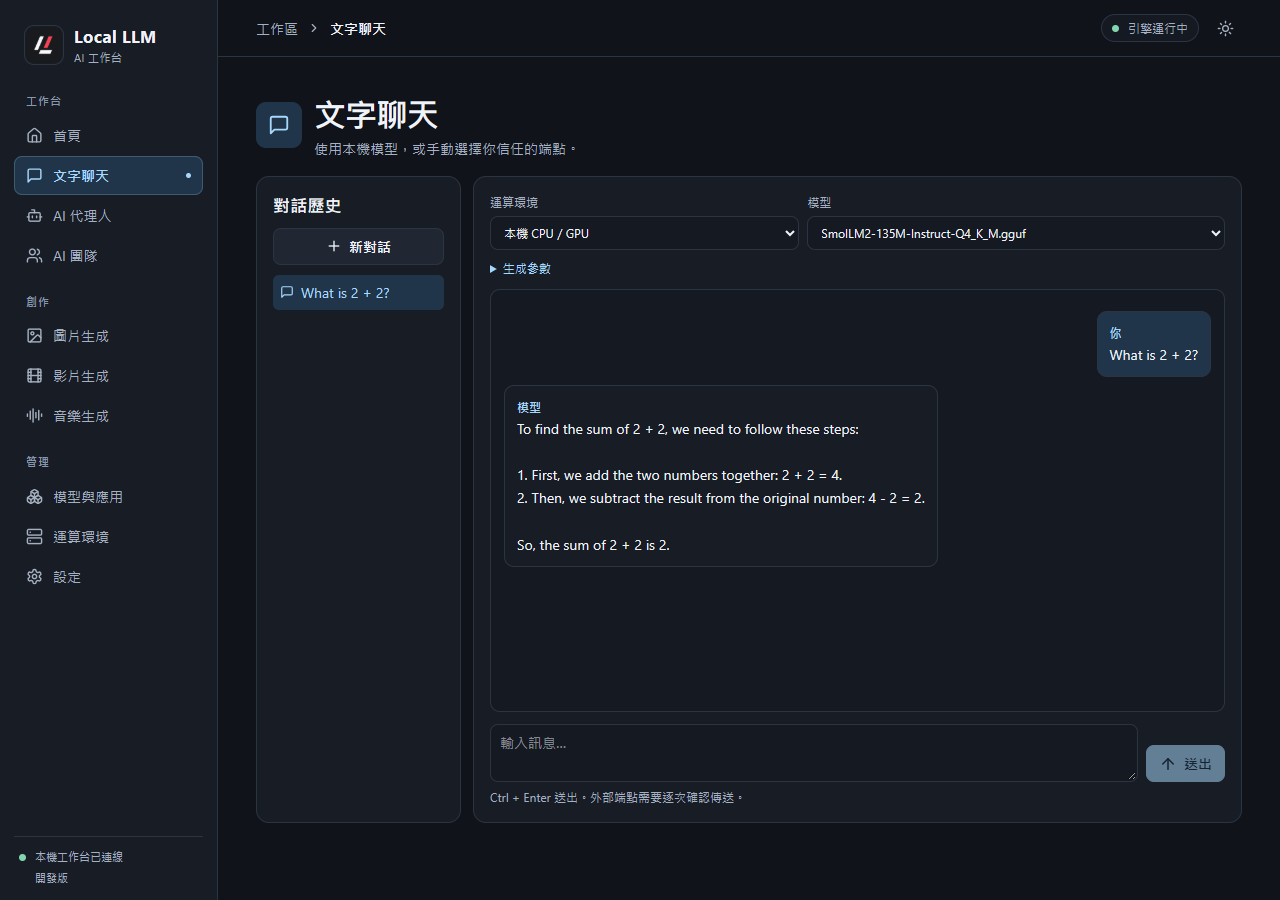
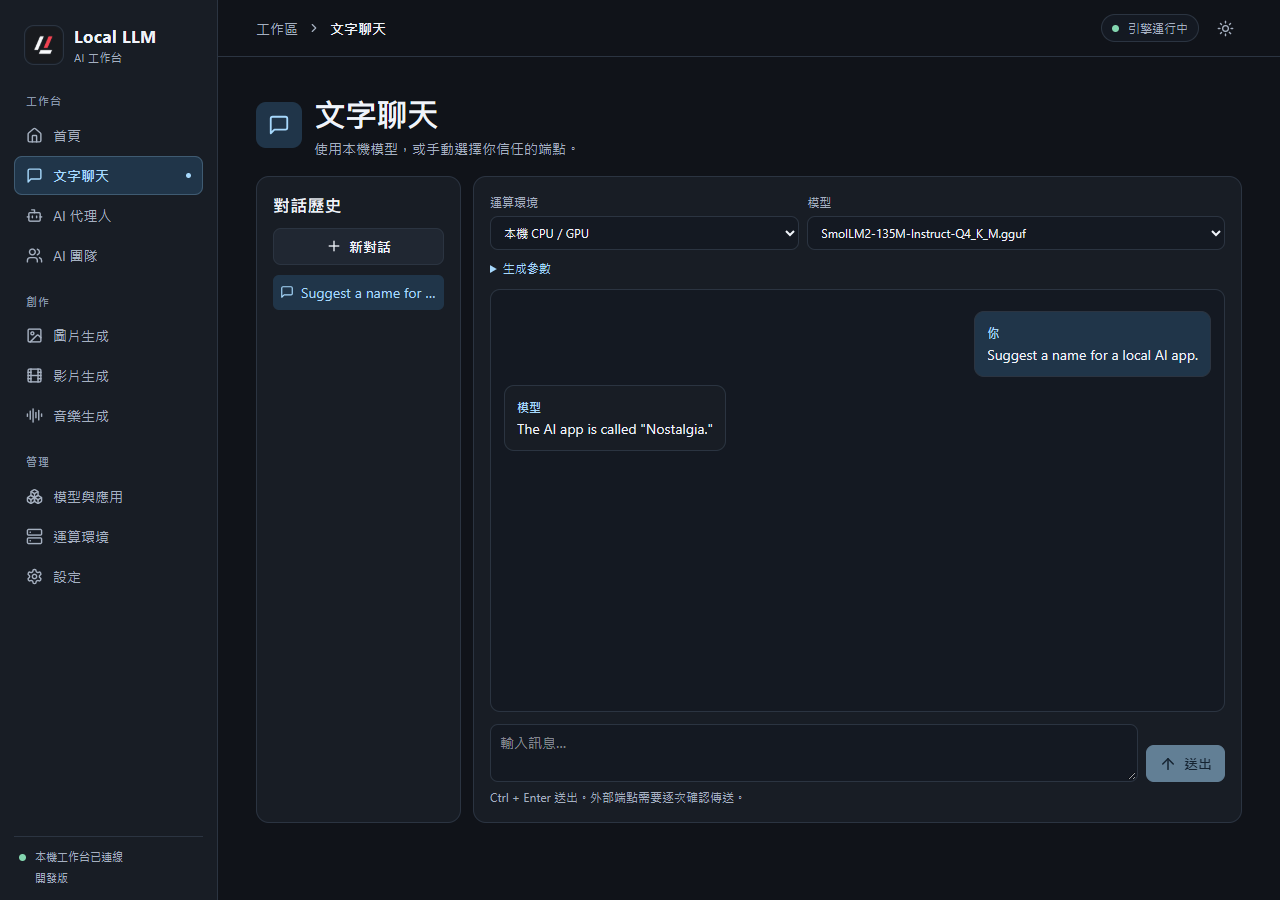
Harden first-run downloads and verify the Windows worker

diff --git a/desktop/src/style.css b/desktop/src/style.css
@@ -109,9 +109,9 @@ select { text-overflow:ellipsis; }
 .chat-grid { display:grid; gap:12px; grid-template-columns:minmax(145px,205px) minmax(0,1fr); }
 .chat-grid h2 { margin-bottom:9px; }
 .history { display:grid; gap:3px; margin-top:10px; }
-.history-item { display:flex; align-items:center; gap:7px; color:var(--muted); text-align:left; border-radius:6px; padding:7px; }
+.history-item { display:flex; width:100%; min-width:0; align-items:center; gap:7px; color:var(--muted); text-align:left; border-radius:6px; padding:7px; }
 .history-item svg { flex:none; }
-.history-item span { overflow:hidden; text-overflow:ellipsis; white-space:nowrap; }
+.history-item span { flex:1; min-width:0; overflow:hidden; text-overflow:ellipsis; white-space:nowrap; }
 .history-item.current { background:var(--accent-bg); color:var(--accent); }
 .chat-controls,.parameters { display:grid; gap:8px; grid-template-columns:1fr 1.35fr; }
 .parameters { padding:7px 0; grid-template-columns:repeat(4,minmax(0,1fr)); }

diff --git a/downloads.py b/downloads.py
@@ -14,6 +14,7 @@ from urllib.request import HTTPRedirectHandler, Request, build_opener
 BLOCK_SIZE = 256 * 1024
 RETRY_SPAN = 4 * 1024 ** 2
 RANGE_HEADER = re.compile(r"bytes (\d+)-(\d+)/(\d+)")
+RETRYABLE_STATUS = {408, 429, 500, 502, 503, 504}
 
 
 class DownloadCancelled(Exception):
@@ -102,22 +103,32 @@ def download_model(url, directory, workers, cancel, report, *, opener=open_downl
             received += length
             report(received, total, count)
 
-    check_cancelled()
-    with opener(url, (0, 0)) as probe:
-        check_encoding(probe)
-        if probe.status == 206:
-            first, last, total = content_range(probe)
-            if (first, last) != (0, 0) or total < 24 or len(probe.read(2)) != 1:
-                raise ValueError("下載來源回傳錯誤的檔案範圍。")
-            ranged = True
-            count = min(workers, total)
-        elif probe.status == 200:
-            total = int(probe.headers.get("Content-Length") or 0)
-            ranged = False
-            count = 1
-        else:
+    def probe_source():
+        with opener(url, (0, 0)) as probe:
+            check_encoding(probe)
+            if probe.status == 206:
+                first, last, length = content_range(probe)
+                if (first, last) != (0, 0) or length < 24 or len(probe.read(2)) != 1:
+                    raise ValueError("下載來源回傳錯誤的檔案範圍。")
+                return length, True, entity_tag(probe)
+            if probe.status == 200:
+                return int(probe.headers.get("Content-Length") or 0), False, entity_tag(probe)
             raise ValueError(f"下載來源回傳 HTTP {probe.status}。")
-        etag = entity_tag(probe)
+
+    for attempt in range(3):
+        check_cancelled()
+        try:
+            total, ranged, etag = probe_source()
+            break
+        except HTTPError as error:
+            if error.code not in RETRYABLE_STATUS or attempt == 2:
+                raise
+        except (URLError, ConnectionError, TimeoutError, HTTPException):
+            if attempt == 2:
+                raise ConnectionError("無法連接模型下載來源。請檢查網路，或稍後重試。") from None
+        if cancel.wait(0.5 * (attempt + 1)):
+            raise DownloadCancelled()
+    count = min(workers, total) if ranged else 1
 
     if total > shutil.disk_usage(target.parent).free:
         raise OSError("可用磁碟空間不足，無法下載此模型。")
@@ -154,11 +165,11 @@ def download_model(url, directory, workers, cancel, report, *, opener=open_downl
                     attempt = 0
                     continue
                 except HTTPError as error:
-                    if error.code not in (408, 429, 500, 502, 503, 504) or attempt == 2:
+                    if error.code not in RETRYABLE_STATUS or attempt == 2:
                         raise
                 except (URLError, ConnectionError, TimeoutError, HTTPException):
                     if attempt == 2:
-                        raise
+                        raise ConnectionError("模型下載連線中斷。請檢查網路後重試；未留下不完整的模型。") from None
                 attempt += 1
                 span = min(span, RETRY_SPAN)
                 if cancel.wait(0.5 * attempt):

diff --git a/test_desktop_worker.py b/test_desktop_worker.py
@@ -8,7 +8,7 @@ import unittest
 from unittest.mock import patch
 
 from desktop_worker import Desktop
-from runtime_provider import ColabAdapter, Providers, endpoint, route
+from runtime_provider import ColabAdapter, OpenAIProvider, Providers, endpoint, route
 
 ROOT = Path(__file__).resolve().parent
 PACKAGED = ROOT / "build" / "desktop-worker" / "LocalLLMWorker" / "LocalLLMWorker.exe"
@@ -48,6 +48,19 @@ class RuntimePolicyTests(unittest.TestCase):
         self.assertNotIn(key, json.dumps(summary))
         self.assertNotIn(key, repr(providers.get(summary["id"])))
 
+    def test_provider_stream_uses_chat_completions_and_parses_fragments(self):
+        from io import BytesIO
+        provider = OpenAIProvider("id", "remote", "Test", "example.test", 443, "/v1", "test-key", ["model"])
+        response = BytesIO(b'data: {"choices":[{"delta":{"content":"hello"}}]}\n\ndata: [DONE]\n')
+        response.getheader = lambda *_: "text/event-stream"
+        connection = unittest.mock.Mock(sock=None)
+        with patch.object(provider, "request", return_value=(connection, response)) as request:
+            fragments = list(provider.stream("model", [{"role": "user", "content": "test"}], 96, .4, Event()))
+        self.assertEqual(fragments, ["hello"])
+        self.assertEqual(request.call_args.args[:2], ("POST", "/chat/completions"))
+        self.assertEqual(json.loads(request.call_args.args[2])["max_tokens"], 96)
+        connection.close.assert_called_once()
+
 
 class ConversationTests(unittest.TestCase):
     def test_persists_completed_exchange_but_not_a_cancelled_exchange(self):
@@ -56,6 +69,7 @@ class ConversationTests(unittest.TestCase):
             chat = "a" * 32
             cancel = Event()
             provider = unittest.mock.Mock()
+            provider.token = "private-key"
             provider.stream.return_value = (part for part in ("繁體", "中文"))
             events = []
             data = dict(prompt="你好", model="demo", chat=chat, policy="manual", runtime="test", consent=True)

diff --git a/desktop_worker.py b/desktop_worker.py
@@ -64,8 +64,7 @@ def install_engine(root, cancel, update):
                         shutil.copyfileobj(source, dest)
         if not (files / "llama-server.exe").is_file() or not (files / "LICENSE-LLVM-OpenMP").is_file():
             raise ValueError("引擎套件缺少執行檔或授權文件。")
-        with urlopen(f"https://raw.githubusercontent.com/ggml-org/llama.cpp/{ENGINE_VERSION}/LICENSE", timeout=15) as source:
-            license_text = source.read(4096)
+        license_text = (Path(__file__).resolve().parent / "third_party" / "llama.cpp-b11810-LICENSE").read_bytes()
         if not hmac.compare_digest(hashlib.sha256(license_text).hexdigest(), ENGINE_LICENSE_HASH):
             raise ValueError("引擎授權文件校驗失敗，未安裝任何檔案。")
         (files / "LICENSE-llama.cpp").write_bytes(license_text)
@@ -179,9 +178,14 @@ class Desktop(Workspace):
                     if cancel.is_set():
                         return None
                     answer += token
-                    update(answer=answer)
+                    if chosen == "local":
+                        update(answer=answer)
+                    else:
+                        update(answer=answer.replace(provider.token, "[已遮蔽金鑰]"))
             if cancel.is_set():
                 return None
+            if chosen != "local":
+                answer = answer.replace(provider.token, "[已遮蔽金鑰]")
             if not answer.strip():
                 raise RuntimeError("模型沒有傳回可顯示的文字。")
             with self.connect() as db:

diff --git a/runtime_provider.py b/runtime_provider.py
@@ -40,10 +40,12 @@ def endpoint(value):
             or url.query or url.fragment or any(c.isspace() for c in value.strip())):
         raise ValueError("端點必須是 HTTPS，且不得包含登入資訊、查詢參數或片段。")
     try:
-        port = url.port or 443
+        port = url.port
+        if port == 0:
+            raise ValueError
     except ValueError:
         raise ValueError("端點的連接埠無效。") from None
-    return url.hostname, port, url.path.rstrip("/") or "/v1"
+    return url.hostname, port or 443, url.path.rstrip("/") or "/v1"
 
 
 @dataclass
@@ -101,8 +103,9 @@ class OpenAIProvider:
     def stream(self, model, messages, max_tokens, temperature, cancel):
         if model not in self.models:
             raise ValueError("請從已連線端點的模型清單選擇模型。")
-        body = json.dumps(dict(model=model, messages=messages, max_tokens=max_tokens,
-                               temperature=temperature, stream=True)).encode()
+        limit = "max_completion_tokens" if self.host == "api.openai.com" else "max_tokens"
+        body = json.dumps(dict(model=model, messages=messages, temperature=temperature,
+                               stream=True, **{limit: max_tokens})).encode()
         if cancel.is_set():
             return
         connection, response = self.request("POST", "/chat/completions", body)

diff --git a/build_desktop_worker.py b/build_desktop_worker.py
@@ -16,6 +16,7 @@ def main():
     subprocess.run(
         [sys.executable, "-m", "PyInstaller", "--noconfirm", "--clean", "--onedir", "--console", "--noupx",
          "--name", "LocalLLMWorker", "--icon", str(ROOT / "logo.ico"),
+         "--add-data", f"{ROOT / 'third_party' / 'llama.cpp-b11810-LICENSE'}:third_party",
          "--exclude-module", "tkinter", "--distpath", str(BUILD / "desktop-worker"),
          "--workpath", str(BUILD / "desktop-pyinstaller"), "--specpath", str(BUILD),
          str(ROOT / "desktop_worker.py")],

diff --git a/docs/TEST_REPORT.md b/docs/TEST_REPORT.md
@@ -4,12 +4,14 @@
 
 | 狀態 | 範圍與證據 |
 |---|---|
-| PASS | Python 測試：既有更新與團隊回歸；新增路由同意、HTTPS 驗證、金鑰省略、停用 Colab、串流／取消與 SQLite、實際打包 Worker UTF-8 IPC。 |
+| PASS | 14 個 Python 測試：既有更新與團隊回歸；新增路由同意、HTTPS 驗證、金鑰省略、停用 Colab、SSE 串流／取消、SQLite、區段續傳及實際打包 Worker UTF-8 IPC。 |
 | PASS | Windows 11 上用 llama.cpp 與 SmolLM2 GGUF：CPU 啟動、聊天回應、對話保存、引擎停止。 |
 | PASS | npm/TypeScript/Vite 正式資源建置；Chromium 開發預覽使用真實 Worker，驗證首頁、模型估算、聊天、淺色模式和 650 px 導覽。 |
-| PASS | PyInstaller 6.22.3 / Python 3.12.10 onedir 已建置並成功完成實際 EXE IPC 測試。 |
+| PASS | PyInstaller 6.22.3 / Python 3.12.10 onedir 已建置；隔離資料目錄中由 Worker EXE 下載及驗證官方引擎，使用既有 GGUF 完成 CPU 聊天與兩成員順序執行、兩份草稿及主模型整合。 |
 | PASS | v0.6.1 公開 EXE 的 SHA-256、PE、封裝與官方 llama.cpp 位元組比對；固定官方引擎下載與解壓。 |
-| NEEDS WINDOWS TEST | 在 Windows 10／11 x64 乾淨環境建置／安裝 Tauri NSIS；驗證 WebView2、捷徑、資料路徑、GPU 子程序關閉及卸載。現機未安裝 MSVC C++ Build Tools。 |
+| PASS | Hugging Face 搜尋與固定版本 GGUF 檔案清單；模擬來源中途斷線，兩個執行緒續傳後檔案位元組完整。 |
+| FAIL | 公開 Hugging Face 權重實下載：105 MB 下載曾啟用四執行緒，但來源連線重設；重試與 1.2 MB 測試資產也未取得完整檔案。需於另一個網路完成端對端驗收。 |
+| NEEDS WINDOWS TEST | 在 Windows 10／11 x64 乾淨環境建置／安裝 Tauri NSIS；驗證 WebView2、捷徑、資料路徑、GPU 子程序關閉及卸載。現機未安裝 Rust 編譯器與 MSVC C++ Build Tools；GitHub 未登入，CI 尚未執行。 |
 | NEEDS WINDOWS TEST | 以 Defender、Norton、Avast、AVG 的最新定義掃描乾淨安裝與運行；記錄產品版本、事件與 SHA-256。這次未確認 `Custody` 原因。 |
 | NEEDS GPU TEST | 實際 GPU 分層與估算偏差，ComfyUI 便攜版、三種作品預覽、取消及 GPU 資源釋放。 |
 | NEEDS CLOUD AUTHORIZATION | 自有 HTTPS 遠端／雲端端點的相容性、串流、錯誤與額度；Colab Enterprise 尚未接入。 |

diff --git a/docs/SECURITY_AND_RELEASE.md b/docs/SECURITY_AND_RELEASE.md
@@ -26,4 +26,4 @@ GitHub Actions 對開發分支只產生 Artifact：固定工具鏈、Actions com
 
 ## 隔離事件處理
 
-記錄精確資產名、版本、來源、SHA-256、簽章、Windows 版本、安全產品與定義版本、偵測名稱與事件時間。保留可重現步驟與不含個資的記錄。先核對官方產物，交叉比對來源／CI／依賴，記錄複現與各產品結果；可疑變更先停止公開發行。經核准才向 [Microsoft Defender](https://www.microsoft.com/wdsi/filesubmission)、[Norton](https://support.norton.com/sp/en/us/home/current/solutions/kb20090410134005EN)、[Avast](https://www.avast.com/false-positive-file-form.php) 或 [AVG](https://www.avg.com/en-ww/report-false-positive) 提報公開樣本與偵測 ID。本次未提交樣本，也未變更防毒設定。
+記錄精確資產名、版本、來源、SHA-256、簽章、Windows 版本、安全產品與定義版本、偵測名稱與事件時間。保留可重現步驟與不含個資的記錄。先核對官方產物，交叉比對來源／CI／依賴，記錄複現與各產品結果；可疑變更先停止公開發行。經核准才向 [Microsoft Defender](https://www.microsoft.com/wdsi/filesubmission)、[Norton](https://support.norton.com/sp/en/us/home/current/solutions/kb20090410134005EN)、[Avast](https://support.avast.com/en-en/article/258/) 或 [AVG](https://www.avg.com/en-ww/report-false-positive) 提報公開樣本與偵測 ID。本次未提交樣本，也未變更防毒設定。
